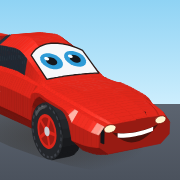
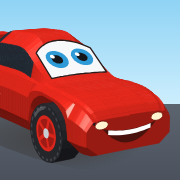
Racerbilen får kort panser og butt front, mer som filmbilen
Panseret var langt og smalnet ned mot en snute, så bilen fikk en nese
som minnet om Langbein. Nå er panseret kort og høyt, holder full bredde
helt fram, og fronten er butt og går nesten ned til bakken, med et
bredere smil og lyktene i hjørnene. Frontruta med øynene sitter lenger
fram, og rammen under bilen stikker ikke lenger ut under munnen. Ikonet
er laget på nytt av den nye bilen. Tester: 323 av 323 holder.

Claude-Session: https://claude.ai/code/session_01MMCvueweAgrzcoNbJm1Aff

Changed region(s): [[0.0, 0.1389, 0.9444, 0.9167], [0.3333, 0.4167, 0.3611, 0.4444]]

diff --git a/js/figurer.js b/js/figurer.js
@@ -416,54 +416,56 @@ var Figurer = (function () {
    * ingen startnummer eller logoer, og barnet gir den navn selv. */
   function bil() {
     var RODT = '#e3281c';
+    /* Kort, høyt panser som holder full bredde helt fram, og en butt front
+     * med plass til et bredt smil – ikke en lang snute som smalner. */
     var st = [
-      [-104, 16, 30, 20, 1, 13], [-100, 12, 37, 27, 1.5, 19], [-90, 10, 40, 30, 2, 22],
-      [-70, 10, 41, 32, 2, 23], [-52, 10, 42, 31, 2.5, 23], [-38, 10, 42, 30, 11, 23],
-      [-24, 10, 42, 29.5, 21, 22.5], [-4, 10, 42, 29.5, 23.5, 22.5], [12, 10, 42, 30, 22.5, 23],
-      [30, 10, 41, 30.5, 12, 24], [46, 10, 39.5, 31, 2.5, 24.5], [62, 10, 37, 32, 2.5, 25],
-      [80, 10, 34, 31, 2.5, 24], [94, 10, 31, 29, 2, 22], [100, 11, 29.5, 28, 1.5, 20],
-      [104, 12, 28, 26, 1, 18]
+      [-100, 16, 31, 21, 1, 14], [-96, 12, 38, 28, 1.5, 20], [-86, 10, 41, 31, 2, 23],
+      [-68, 10, 42, 32.5, 2, 24], [-50, 10, 43, 31.5, 2.5, 24], [-36, 10, 43, 30.5, 11, 24],
+      [-22, 10, 43, 30, 22, 23.5], [-2, 10, 43, 30, 24.5, 23.5], [16, 10, 43, 30.5, 23.5, 24],
+      [32, 10, 42, 31, 12.5, 25], [48, 10, 41, 31.5, 2.5, 25.5], [60, 10, 40, 32.5, 2.5, 26],
+      [74, 10, 38.5, 32.5, 2.5, 26], [84, 10, 36.5, 32, 2, 25.5], [90, 10.5, 33.5, 31, 1.5, 24.5],
+      [93, 11.5, 30, 29.5, 1, 23]
     ];
-    var flater = karosseri(st, [[-60, 17, 21], [62, 17, 21]], function (x, j) {
-      if (j === 5 && x > -34 && x < 22) return ['#26303b', 0.9];
+    var flater = karosseri(st, [[-58, 17, 21], [58, 17, 21]], function (x, j) {
+      if (j === 5 && x > -32 && x < 28) return ['#26303b', 0.9];
       if (j >= 6 && x > -36 && x < -16) return ['#26303b', 0.9];
       return [RODT, 0.6];
     }).concat(
-      karosseri([[-96, 9, 32, 16, 0, 14], [96, 9, 30, 16, 0, 14]], [], function () { return ['#1b1c20', 0]; }),
-      bjelke([-95, 40, 14], [-95, 51, 14], 1.6, 1.6, '#9c1c12', 0.3),
-      bjelke([-95, 40, -14], [-95, 51, -14], 1.6, 1.6, '#9c1c12', 0.3),
-      bjelke([-96, 52, -28], [-96, 52, 28], 1.8, 9, RODT, 0.5),
-      hjul3d(-60, 17, 26, 17, 13, 1, '#d8261c', 'hjul--bak'), hjul3d(62, 17, 26, 17, 13, 1, '#d8261c', 'hjul--front'),
-      hjul3d(-60, 17, -26, 17, 13, -1, '#d8261c', 'hjul--bak'), hjul3d(62, 17, -26, 17, 13, -1, '#d8261c', 'hjul--front')
+      karosseri([[-90, 9, 32, 16, 0, 14], [82, 9, 30, 16, 0, 14]], [], function () { return ['#1b1c20', 0]; }),
+      bjelke([-91, 41, 14], [-91, 52, 14], 1.6, 1.6, '#9c1c12', 0.3),
+      bjelke([-91, 41, -14], [-91, 52, -14], 1.6, 1.6, '#9c1c12', 0.3),
+      bjelke([-92, 53, -28], [-92, 53, 28], 1.8, 9, RODT, 0.5),
+      hjul3d(-58, 17, 26, 17, 13, 1, '#d8261c', 'hjul--bak'), hjul3d(58, 17, 26, 17, 13, 1, '#d8261c', 'hjul--front'),
+      hjul3d(-58, 17, -26, 17, 13, -1, '#d8261c', 'hjul--bak'), hjul3d(58, 17, -26, 17, 13, -1, '#d8261c', 'hjul--front')
     );
-    /* frontruta fra underkanten (x 45) til toppen (x 13), midt på bilen */
-    var ned = [45, glatt(st, 2, 45) + glatt(st, 4, 45), 0], opp = [13, glatt(st, 2, 13) + glatt(st, 4, 13), 0];
+    /* frontruta fra underkanten (x 47) til toppen (x 17), midt på bilen */
+    var ned = [47, glatt(st, 2, 47) + glatt(st, 4, 47), 0], opp = [17, glatt(st, 2, 17) + glatt(st, 4, 17), 0];
     var h = Math.sqrt(prikk(minus(opp, ned), minus(opp, ned)));
     var rute = iPlan(ned, [0, 0, -1], enhet(minus(opp, ned)));
-    var front = iPlan([104.3, 20, 0], [0, 0, -1], [0, 1, 0]);
-    var side = iPlan([-6, 27, 29.8], [1, 0, 0], [0, 1, 0]);
+    var front = iPlan([93.3, 21, 0], [0, 0, -1], [0, 1, 0]);
+    var side = iPlan([-6, 27, 30.3], [1, 0, 0], [0, 1, 0]);
     var MUNN = '#4a120d';
     function smil(dybde, tenner) {
       return function (kam) {
-        var over = kurve(-17, 17, function (u) { return 2 + 2.2 * Math.pow(u / 17, 2); });
-        var under = kurve(17, -17, function (u) { return 2 + 2.2 * Math.pow(u / 17, 2) - dybde * (1 - Math.pow(u / 17, 2)); });
+        var over = kurve(-19, 19, function (u) { return 2 + 2.6 * Math.pow(u / 19, 2); });
+        var under = kurve(19, -19, function (u) { return 2 + 2.6 * Math.pow(u / 19, 2) - dybde * (1 - Math.pow(u / 19, 2)); });
         return flekk(kam, front, over.concat(under), 'fill="' + MUNN + '"') +
-          (tenner ? flekk(kam, front, kurve(-13, 13, function (u) { return 2 + 2.2 * Math.pow(u / 17, 2) - 0.2; })
-              .concat(kurve(13, -13, function (u) { return 2 + 2.2 * Math.pow(u / 17, 2) - 2.6; })), 'fill="#fff"') : '');
+          (tenner ? flekk(kam, front, kurve(-15, 15, function (u) { return 2 + 2.6 * Math.pow(u / 19, 2) - 0.2; })
+              .concat(kurve(15, -15, function (u) { return 2 + 2.6 * Math.pow(u / 19, 2) - 2.8; })), 'fill="#fff"') : '');
       };
     }
     return bil3d({
       flater: flater,
-      skygge: [0, 112, 40],
+      skygge: [-3, 103, 40],
       pynt: function (kam) {
         return flekk(kam, side, [[-9, 9], [4, 9.5], [-1, 3], [8, 3.5], [-11, -10], [-4, -0.5], [-12, 0]].map(function (p) {
             return [p[0] * 0.75, p[1] * 0.75]; }), 'fill="#fff" opacity=".94"') +
           [-1, 1].map(function (s) {
-            return flekk(kam, front, ring(s * 18.5, 6.5, 4.2, 2.3), 'fill="#fff4cf" stroke="#7a150d" stroke-width=".6"');
+            return flekk(kam, front, ring(s * 19.5, 6.8, 4.4, 2.4), 'fill="#fff4cf" stroke="#7a150d" stroke-width=".6"');
           }).join('') +
           bilansikt(kam, rute, h, 22, '#2f9bd6', {
-            vanlig: smil(6, true)(kam),
-            glad: smil(9.5, true)(kam),
+            vanlig: smil(7.5, true)(kam),
+            glad: smil(11, true)(kam),
             hmm: strek(kam, front, kurve(-11, 11, function (u) { return 1 + Math.sin(u / 3.5) * 0.8; }), MUNN, 2),
             trott: strek(kam, front, kurve(-7, 7, function (u) { return 1.5 - 1.8 * (1 - Math.pow(u / 7, 2)); }), MUNN, 2)
           });
